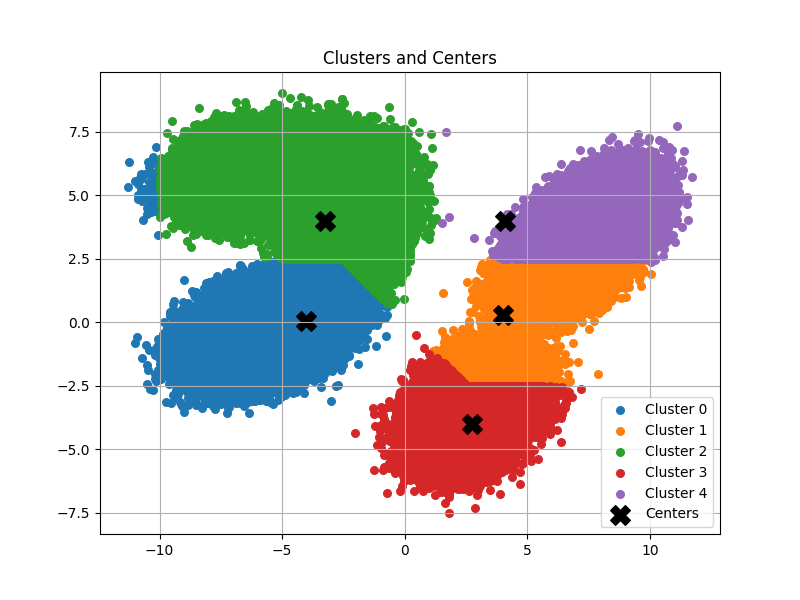
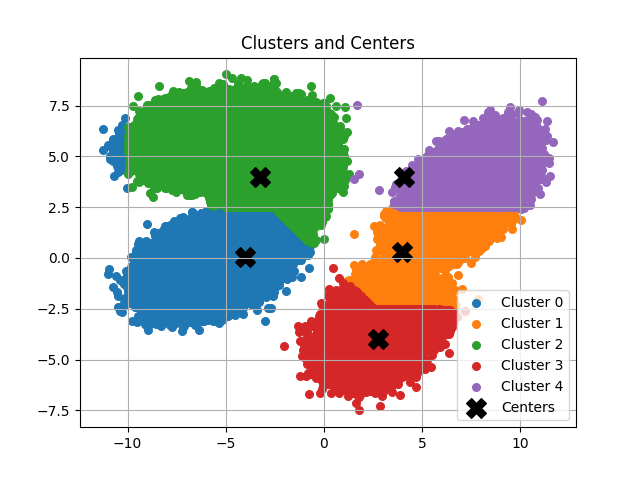
code

diff --git a/code/dist-cluster/cluster-synth-costs.py b/code/dist-cluster/cluster-synth-costs.py
@@ -4,7 +4,7 @@ from sklearn.cluster import KMeans
 from sklearn.datasets import load_digits
 import random
 
-seed = 28
+seed = 42
 #22 is great
 
 random.seed(seed)  # Set seed to any integer
@@ -267,7 +267,8 @@ def plot_clusters(S, C, labels):
     base_cmap = plt.colormaps.get_cmap('tab10')
     color_list = [base_cmap(i % 10) for i in range(k)]  # tab10 has only 10 unique colors
 
-    plt.figure(figsize=(8, 6))
+    plt.figure()
+    #plt.figure(figsize=(8, 6))
 
     for j in range(k):
         cluster_points = S[labels == j]
